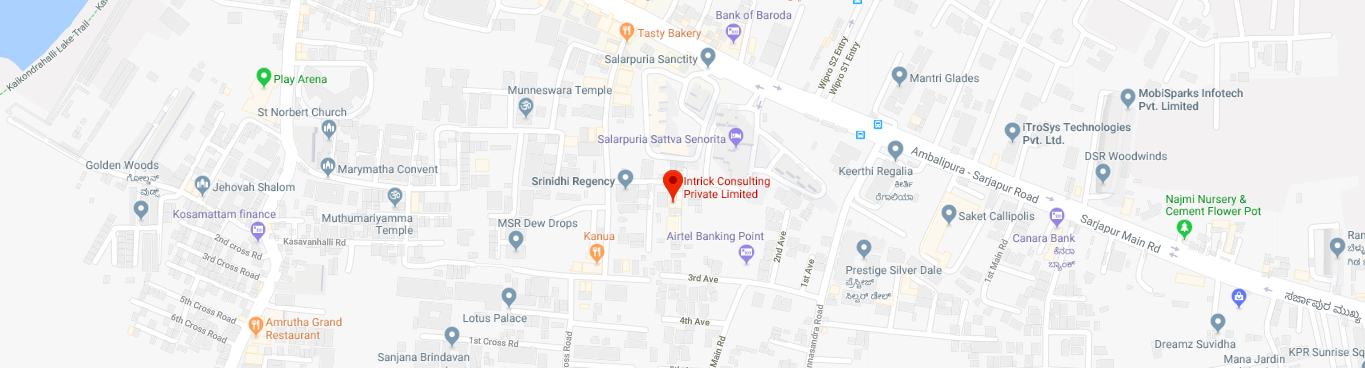
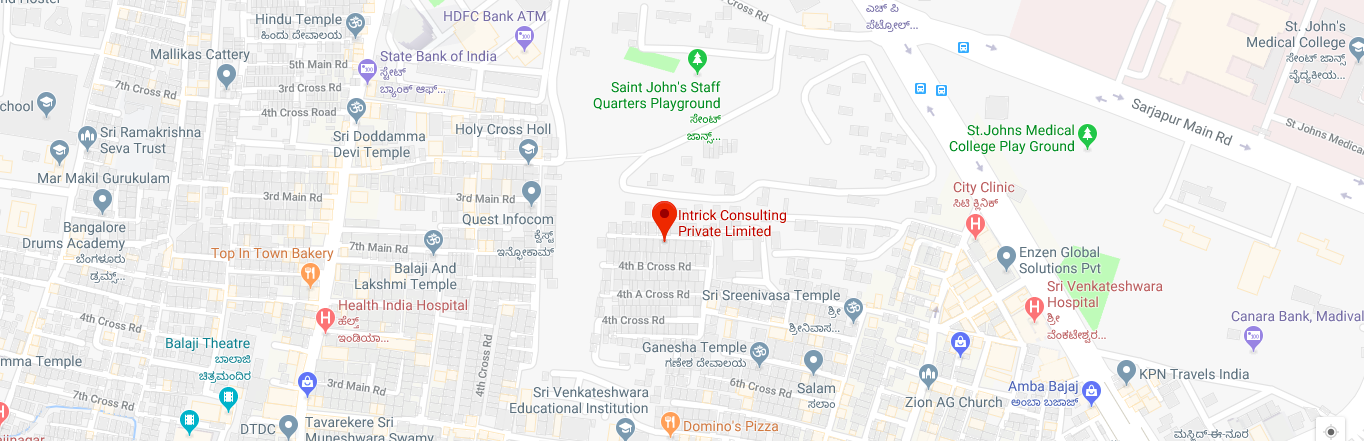
removed teams section | added TapChief and removed Mytingli client | copyright updated to 2019 | map images and locations updated

diff --git a/index.html b/index.html
@@ -19,7 +19,7 @@
     <link href='https://fonts.googleapis.com/css?family=Pacifico' rel='stylesheet' type='text/css'>
     <!--[if lt IE 9]>
     <script src="js/html5shiv.min.js"></script>
-      <script src="js/respond.min.js"></script>
+    <script src="js/respond.min.js"></script>
     <![endif]-->
     <style type="text/css">
         .team-img-0 {
@@ -104,7 +104,6 @@
                 <ul id="top-menu" class="nav navbar-nav main-nav menu-scroll">
                     <li class="active"><a href="#header" class="less-padding">Home</a></li>
                     <li><a href="#about" id="aboutbtn" class="less-padding">ABOUT</a></li>
-                    <li><a href="#team" class="less-padding">TEAM</a></li>
                     <li><a href="#service" class="less-padding">SERVICES</a></li>
                     <li><a href="#technology" class="less-padding">TECHNOLOGIES WE USE</a></li>
                     <li><a href="#contact" class="less-padding">CONTACT</a></li>
@@ -193,103 +192,6 @@
                                 </div>
                             </div>
                         </div>
-                    </div>
-                </div>
-            </div>
-        </div>
-    </div>
-</section>
-<section id="team">
-    <div class="container">
-        <div class="row">
-            <div class="col-md-12">
-                <div class="team-area">
-                    <div class="title-area">
-                        <h2 class="tittle">Meet our team</h2>
-                        <span class="tittle-line"></span>
-                        <p>Our team members are our greatest asset. Our ability to deliver outstanding results for our
-                            clients
-                            starts with our team of smart, capable Web experts. We come from a diverse set of
-                            experiences
-                            and backgrounds that range from Django Experts and Software consultants to in-house
-                            professionals
-                            for software developments.</p>
-                    </div>
-                    <div class="team-content">
-                        <ul class="team-grid">
-                            <li>
-                                <div class="team-item team-img-0 wow fadeInUp">
-                                </div>
-                                <div class="team-address">
-                                    <p>Abisack</p>
-                                    <span>UI/UX Engineer</span>
-                                </div>
-                            </li>
-                            <li>
-                                <div class="team-item team-img-1 wow fadeInUp">
-                                </div>
-                                <div class="team-address">
-                                    <p>Arul Murugan</p>
-                                    <span>HR Manager</span>
-                                </div>
-                            </li>
-                            <li>
-                                <div class="team-item team-img-2 wow fadeInUp">
-                                </div>
-                                <div class="team-address">
-                                    <p>Andamuthu</p>
-                                    <span>Software Engineer</span>
-                                </div>
-                            </li>
-                            <li>
-                                <div class="team-item team-img-3 wow fadeInUp">
-                                </div>
-                                <div class="team-address">
-                                    <p>Dhana</p>
-                                    <span>UI/UX Engineer</span>
-                                </div>
-                            </li>
-                            <li>
-                                <div class="team-item team-img-4 wow fadeInUp">
-                                </div>
-                                <div class="team-address">
-                                    <p>Ganesh</p>
-                                    <span>Senior Software Engineer</span>
-                                </div>
-                            </li>
-                            <li>
-                                <div class="team-item team-img-5 wow fadeInUp">
-                                </div>
-                                <div class="team-address">
-                                    <p>Gowtham</p>
-                                    <span>Software Engineer</span>
-                                </div>
-                            </li>
-                            <li>
-                                <div class="team-item team-img-6 wow fadeInUp">
-                                </div>
-                                <div class="team-address">
-                                    <p>Ibrahim</p>
-                                    <span>Software Engineer</span>
-                                </div>
-                            </li>
-                            <li>
-                                <div class="team-item team-img-7 wow fadeInUp">
-                                </div>
-                                <div class="team-address">
-                                    <p>Jaga</p>
-                                    <span>Software Engineer</span>
-                                </div>
-                            </li>
-                            <li>
-                                <div class="team-item team-img-8 wow fadeInUp">
-                                </div>
-                                <div class="team-address">
-                                    <p>Prabu</p>
-                                    <span>Software Engineer</span>
-                                </div>
-                            </li>
-                        </ul>
                     </div>
                 </div>
             </div>
@@ -395,7 +297,7 @@
                 <div class="col-md-12">
                     <div class="service-area">
                         <div class="title-area">
-                            <h2 class="tittle">Technologies We Expertise in</h2>
+                            <h2 class="tittle">Technologies we expertise in</h2>
                             <span class="tittle-line"></span>
                             <p>Intrick has established itself as a reliable provider of quality and robust applications
                                 that reacts to all changes in the market and gives its customers challenging solutions
@@ -437,12 +339,12 @@
             <div class="col-md-12">
                 <div class="client-area">
                     <div class="title-area">
-                        <h2 class="tittle">Our Valuable Clients</h2>
+                        <h2 class="tittle">Our valuable clients</h2>
                         <span class="tittle-line"></span>
                     </div>
                     <ul class="client-table">
                         <li><img src="images/clients/it.png" alt="InfraTab logo"></li>
-                        <li><img src="images/clients/mt.png" alt="MyTingli logo"></li>
+                        <li><img src="images/clients/tc.png" alt="TapChief logo"></li>
                         <li><img src="images/clients/cf.png" alt="CoreFactors logo"></li>
                         <li><img src="images/clients/gm.png" alt="GladMinds logo"></li>
                     </ul>
@@ -486,8 +388,7 @@
     </div>
 </section>
 <section id="google-map">
-    <a href="https://www.google.co.in/maps/place/Intrick+Consulting+Private+Limited/@12.9094663,77.6818502,17z/data=!4m12!1m6!3m5!1s0x3bae1313edfb36c7:0x9ac1d2b9d1fa23db!2sIntrick+Consulting+Private+Limited!8m2!3d12.9098259!4d77.6817114!3m4!1s0x3bae1313edfb36c7:0x9ac1d2b9d1fa23db!8m2!3d12.9098259!4d77.6817114"
-       target="_blank">
+    <a href="https://goo.gl/maps/ywinUEKHEMw" target="_blank">
         <img class="hidden-xs" src="images/Intrick_map.jpg">
         <img class="visible-xs-block" src="images/Intrick_map_mob.jpg">
     </a>
@@ -514,7 +415,7 @@
         </div>
     </div>
     <div class="footer-bottom">
-        <p>© 2018 <a rel="nofollow" href="/">Intrick.</a> All Rights Reserved.</p>
+        <p>© 2019 <a rel="nofollow" href="/">Intrick.</a> All Rights Reserved.</p>
     </div>
     <div class="modal modal-fullscreen fade view-more-modal footer-modal-content in" id="WhoWeAre" tabindex="-1"
          role="dialog" aria-labelledby="overview-modal-label" aria-hidden="true">
